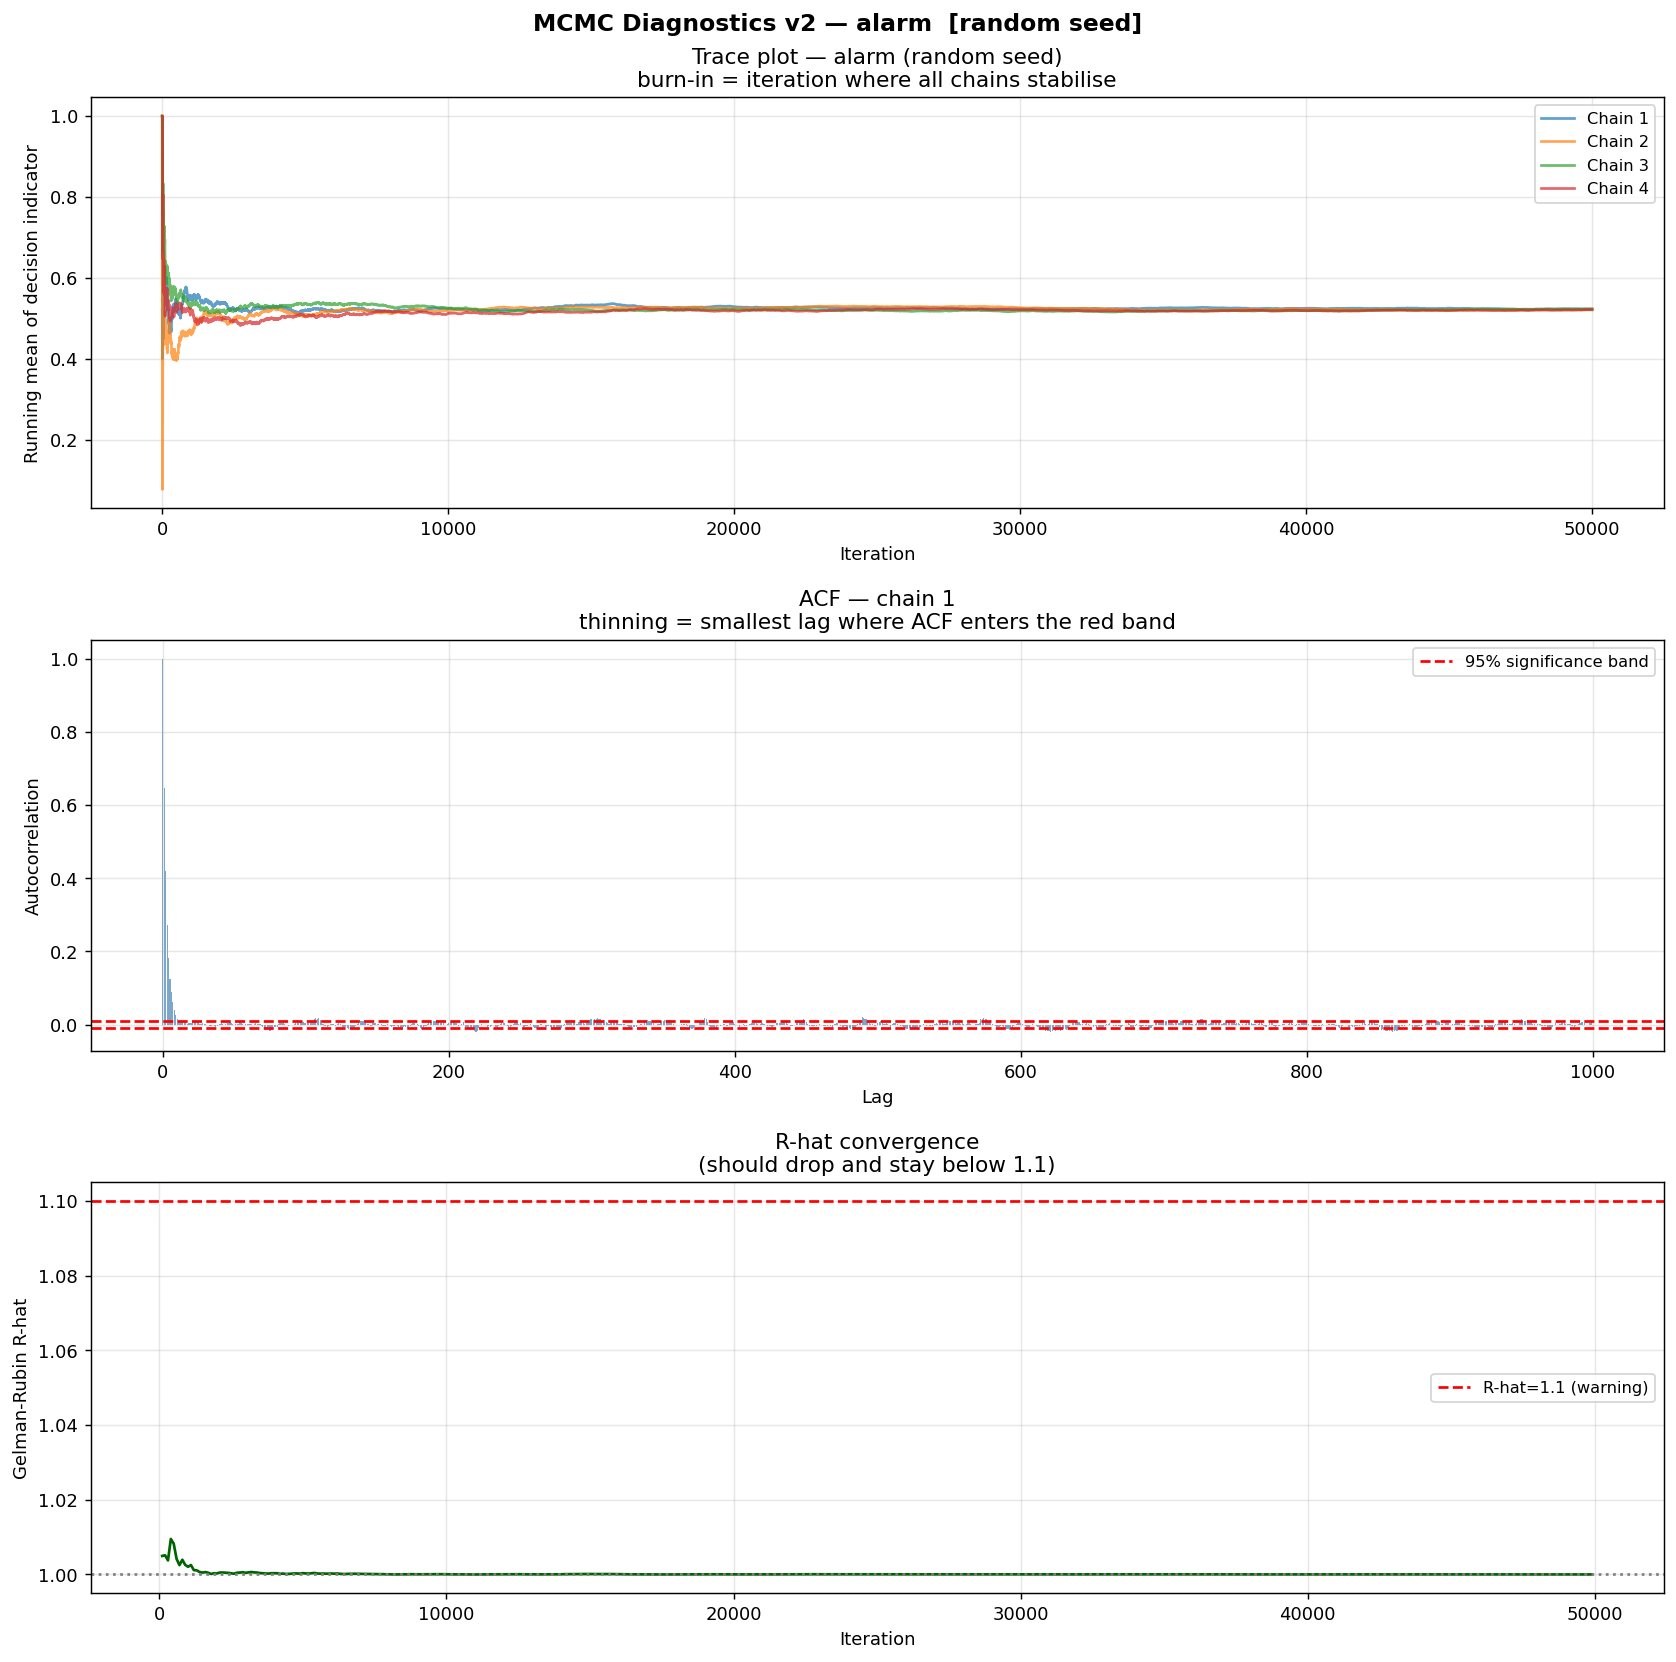
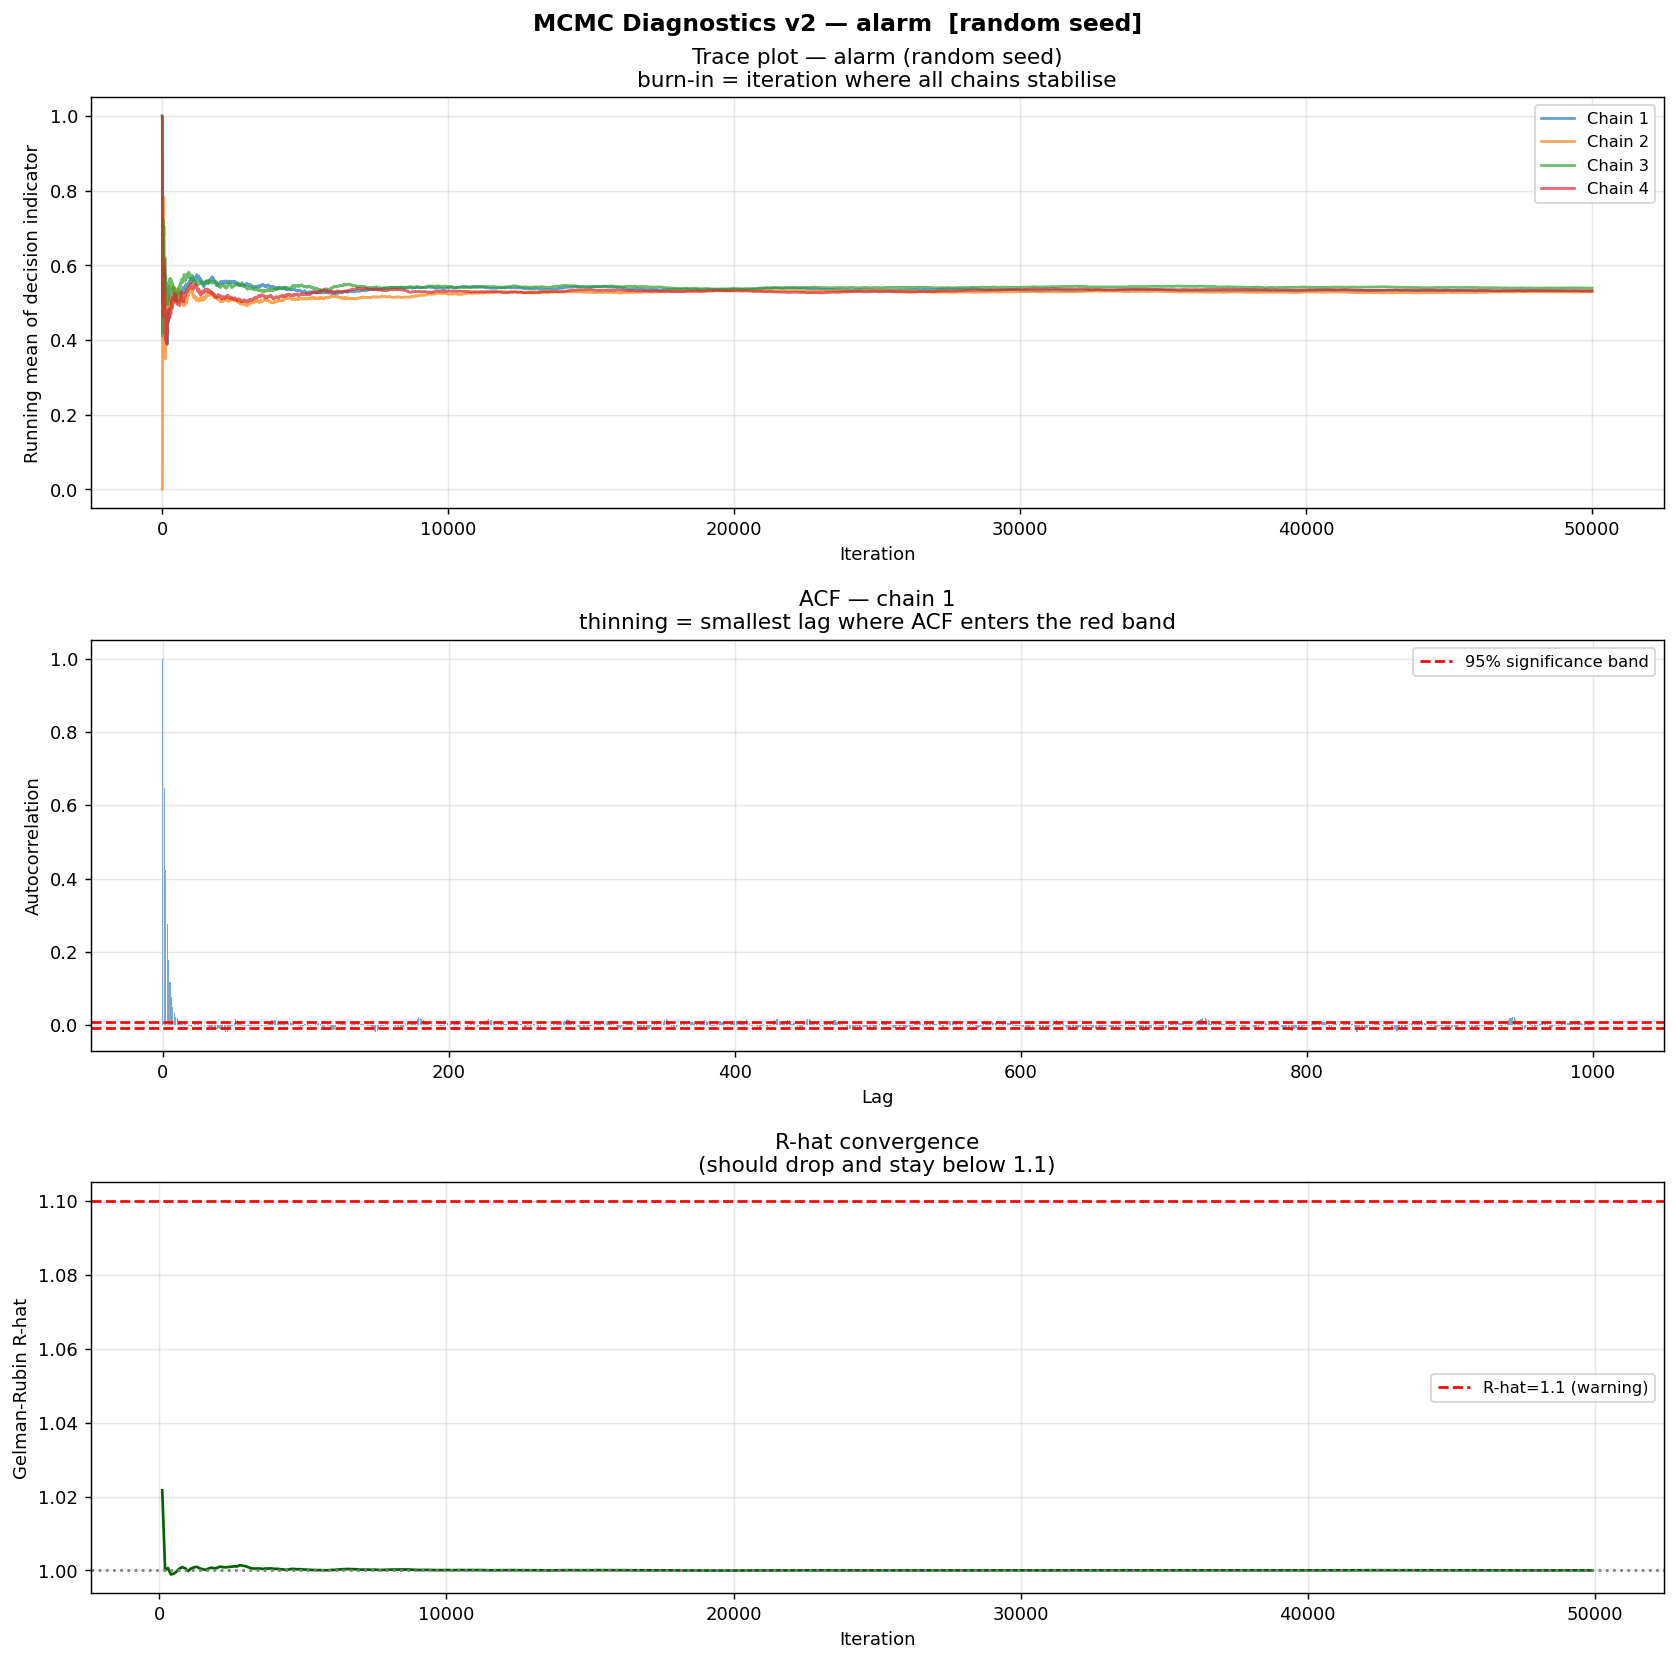
update

diff --git a/src/benchmark_experiments_script.py b/src/benchmark_experiments_script.py
@@ -367,7 +367,7 @@ def run_targeted_sdp_experiment(output_csv="targeted_sdp_benchmark.csv", models_
                 for trial in range(MCMC_TRIALS):
                     est_sdp, t_time, ok = run_for_time(
                         fast_mcmc_sdp_estimation_new, bn, target, target_value, patient,
-                        DECISION_THRESHOLD, n_samples=1000, burn_in=burn_in, thinning=thinning, use_lw_seed=True
+                        DECISION_THRESHOLD, n_samples=3000, burn_in=burn_in, thinning=thinning, use_lw_seed=True
                     )
                     if not ok:
                         mcmc_success = False
@@ -494,7 +494,7 @@ def run_targeted_sdp_experiment(output_csv="targeted_sdp_benchmark.csv", models_
                 for trial in range(MCMC_TRIALS):
                     est_sdp, t_time, _ = run_for_time(
                         fast_mcmc_sdp_estimation_new, bn, target, target_value, patient,
-                        DECISION_THRESHOLD, n_samples=1000, burn_in=burn_in, thinning=thinning, use_lw_seed = True
+                        DECISION_THRESHOLD, n_samples=3000, burn_in=burn_in, thinning=thinning, use_lw_seed = True
                     )
                     mcmc_estimates.append(est_sdp)
                     mcmc_times.append(t_time)
@@ -840,7 +840,7 @@ if __name__ == "__main__":
     # Run the experiment
     #results_df_toy = run_targeted_sdp_experiment(output_csv="targeted_sdp_benchmark_toy.csv", models_to_run=[child_model], max_tensor_entries=15_000_000)
     
-    results_medium = run_targeted_sdp_experiment(output_csv="targeted_sdp_benchmark_full_isambard_medium_nets_seed_true.csv", models_to_run=models_to_run)
+    results_medium = run_targeted_sdp_experiment(output_csv="targeted_sdp_benchmark_full_isambard_medium_nets_seed_true.csv", models_to_run=[alarm_model])
     #results_large = run_large_network_experiment(
     #output_csv="targeted_sdp_benchmark_large_networks.csv",
     #models_to_run=[andes_model, link_model, pathfinder_model],
